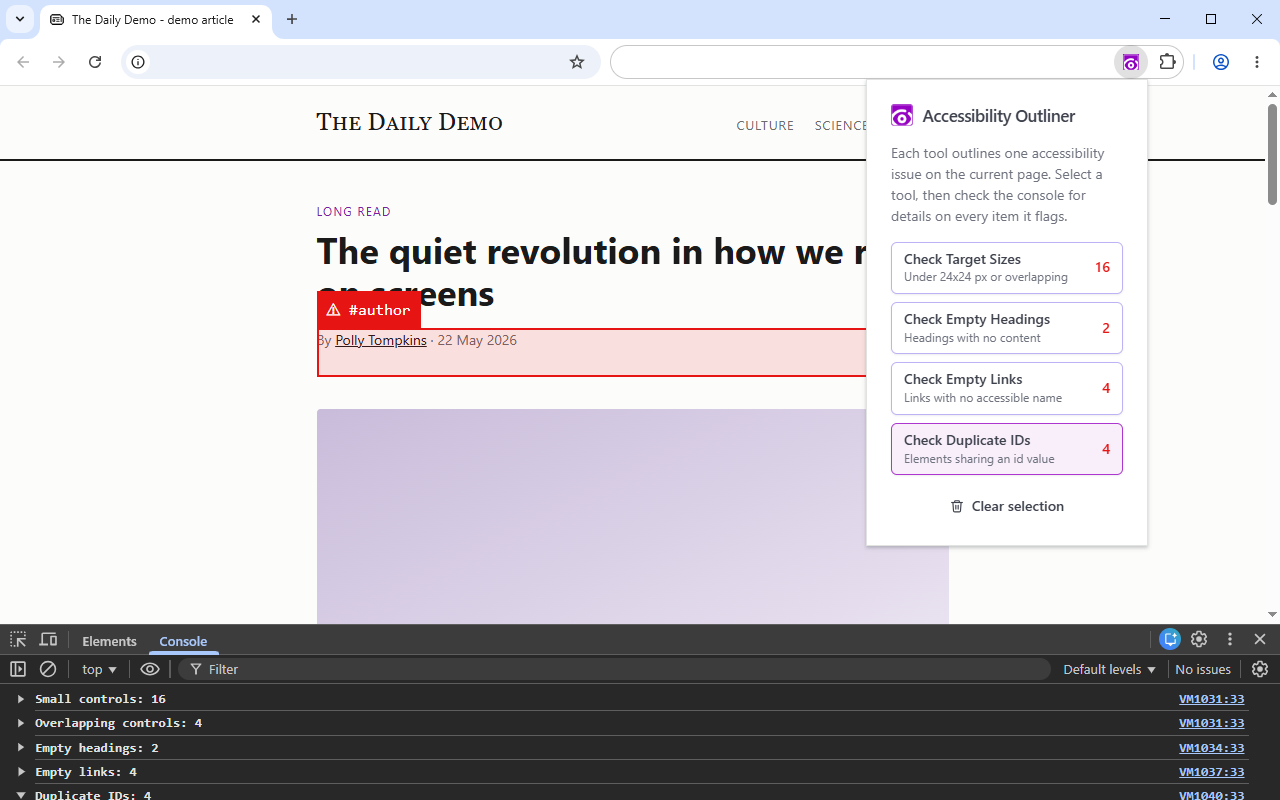
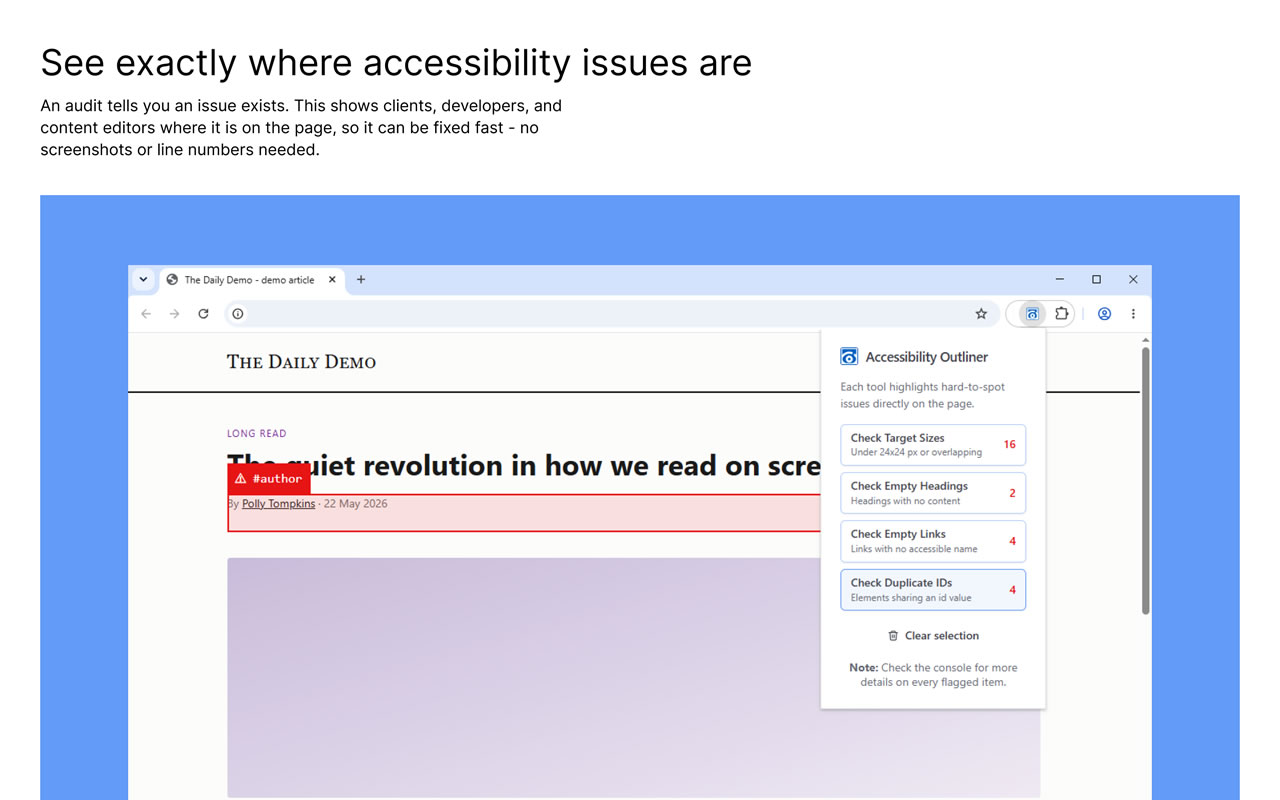
- add new assets for google chrome extension page - amends to demo page for testing

diff --git a/demo.html b/demo.html
@@ -17,7 +17,7 @@
       --rule: #e2e2e2;
       --accent: #7a1fa2;
       --paper: #fcfcfb;
-      --max: 42rem;
+      --max: 66rem;
     }
 
     * {
@@ -119,7 +119,7 @@
     .figure img {
       display: block;
       width: 100%;
-      height: auto;
+      height: 300px;
       border-radius: 0.25rem;
     }
 